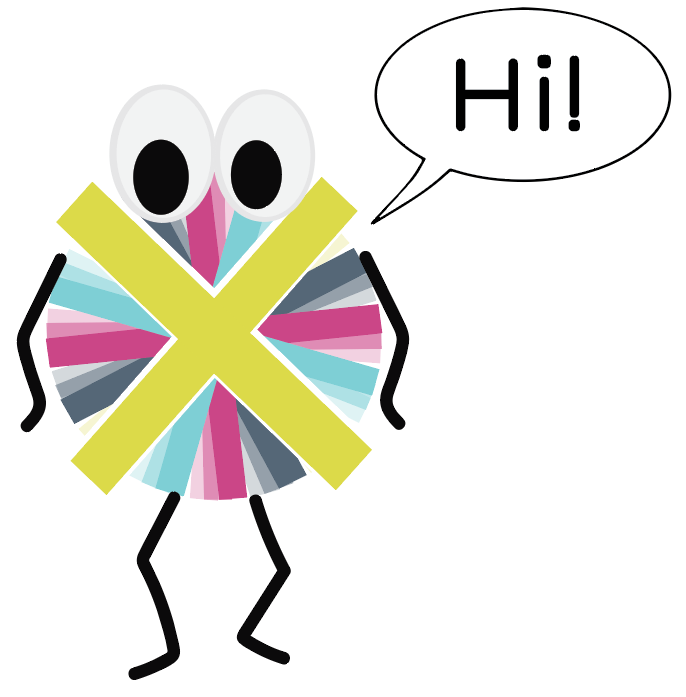
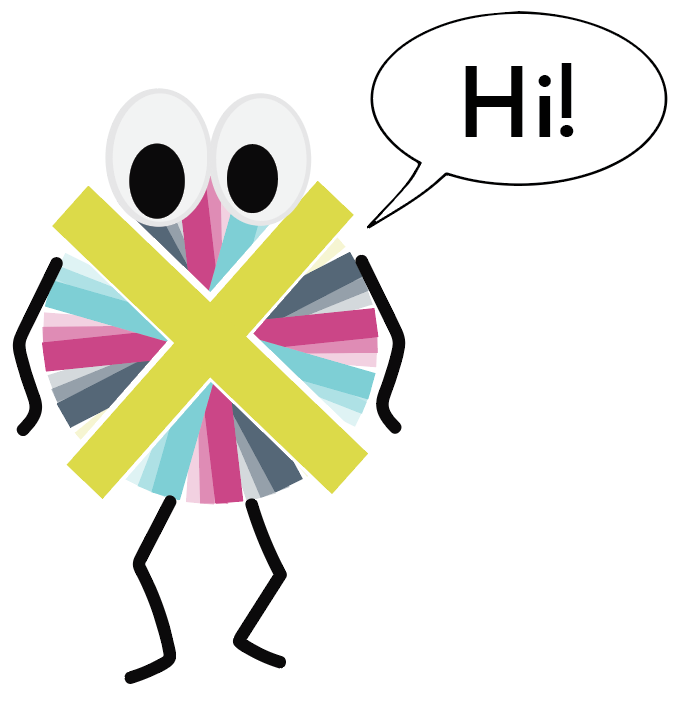
Updated thankyou page

diff --git a/thankyou.html b/thankyou.html
@@ -108,19 +108,29 @@
 
     </ul>
   </nav>
-  <div class="top-line-title" id="about"></div>
-  <div class="title">
-    <h1 class="title">Thank you for contacting us! </h1>
-  </div>
+  
+ 
+ 
+      <div class="">
+        <img src="./images/Mascot thank you.png" alt="Creafix Mascot thank you"
+          class="img-fluid mx-auto d-block mascot">
+      </div>
+<div class="">
+<h1 class="title ty">Thank you for reaching out! </h1>
+<p class="web-intro bio-highlight ty">We are reviewing your request and will get back to you as soon as possible. In the meantime feel free to browse our website and follow us on LinkedIn.</p>
+
+
+<div class="contact-button justify-content-center"><a href="index.html" class="contact-link" title="Homepage">Back to homepage</a></div>
+    
+</div>
+</div>
+  
+  
 
 
 
 
-  <div class="row mt-2 g-0">
-    <div class="col-12  contact-button">
-      <a href="index.html" class="contact-link" title="Homepage">Back to homepage</a>
-    </div>
-  </div>
+  
   
   </body>
 <footer>

diff --git a/src/styles.css b/src/styles.css
@@ -569,6 +569,11 @@ justify-content: center;
 .logofooter {
   padding: 0 20px;
 }
+.ty{
+  text-align: center;
+}
+
+
 /*Media queries for small and medium screens*/
 @media (min-width: 992px){
 
